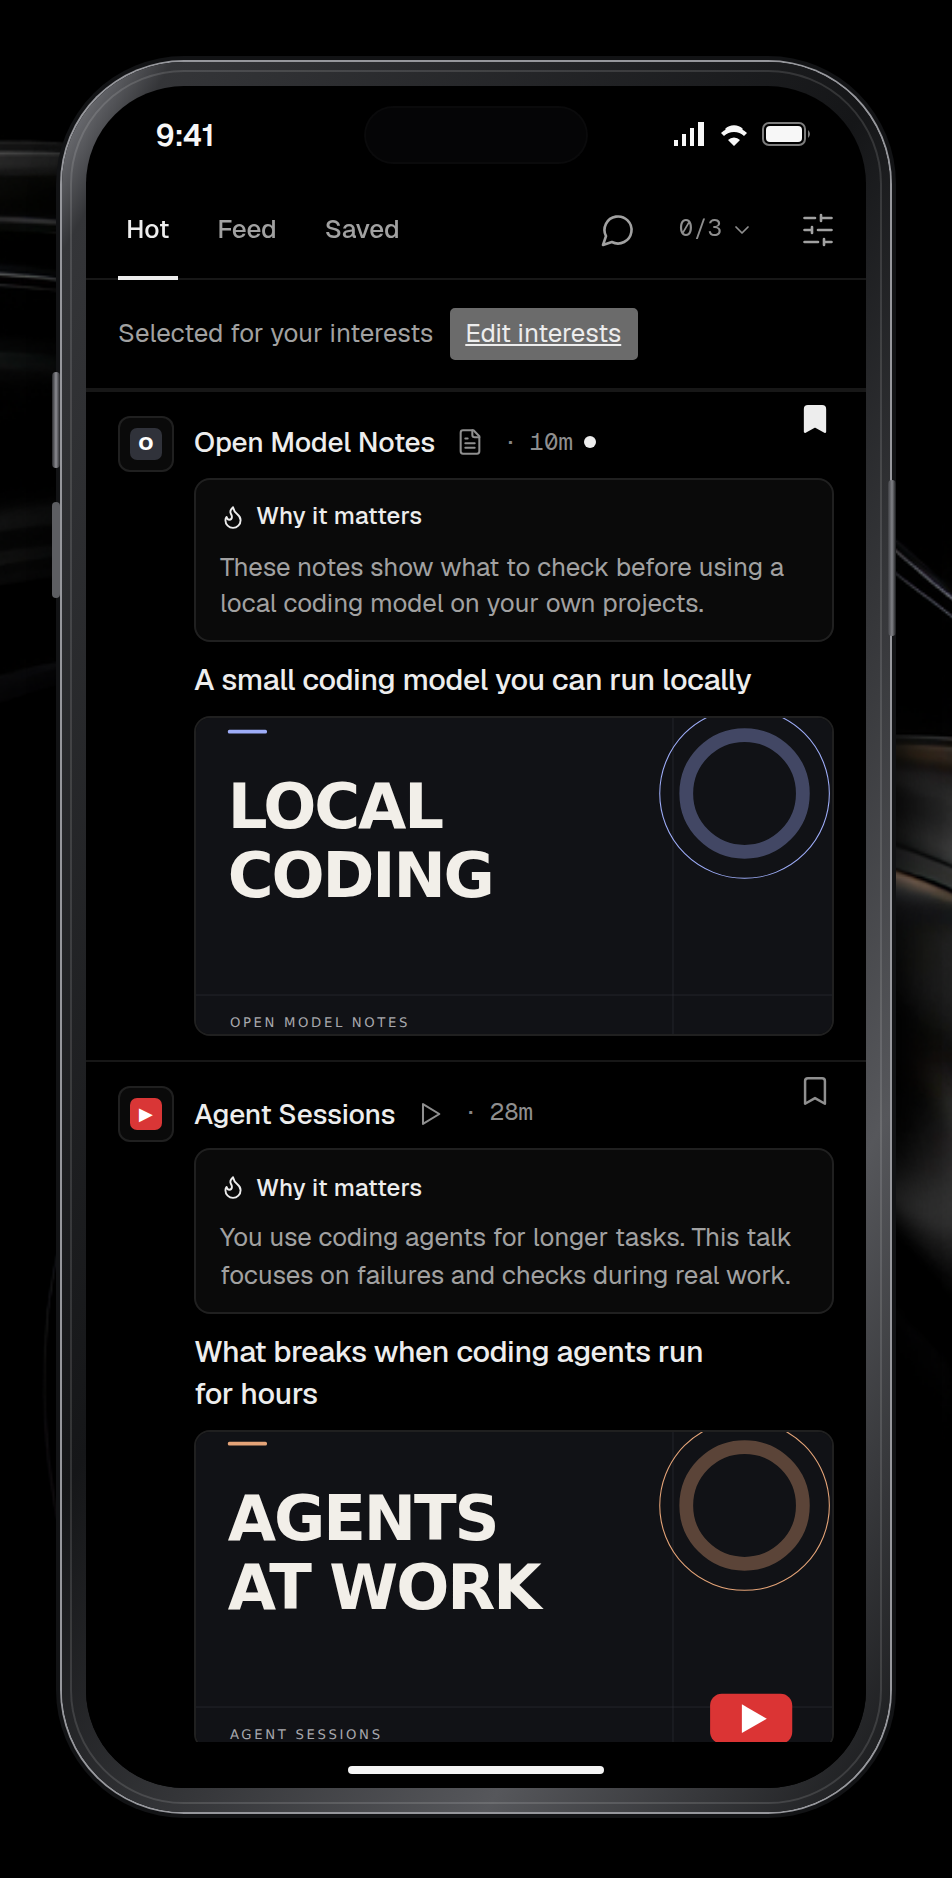
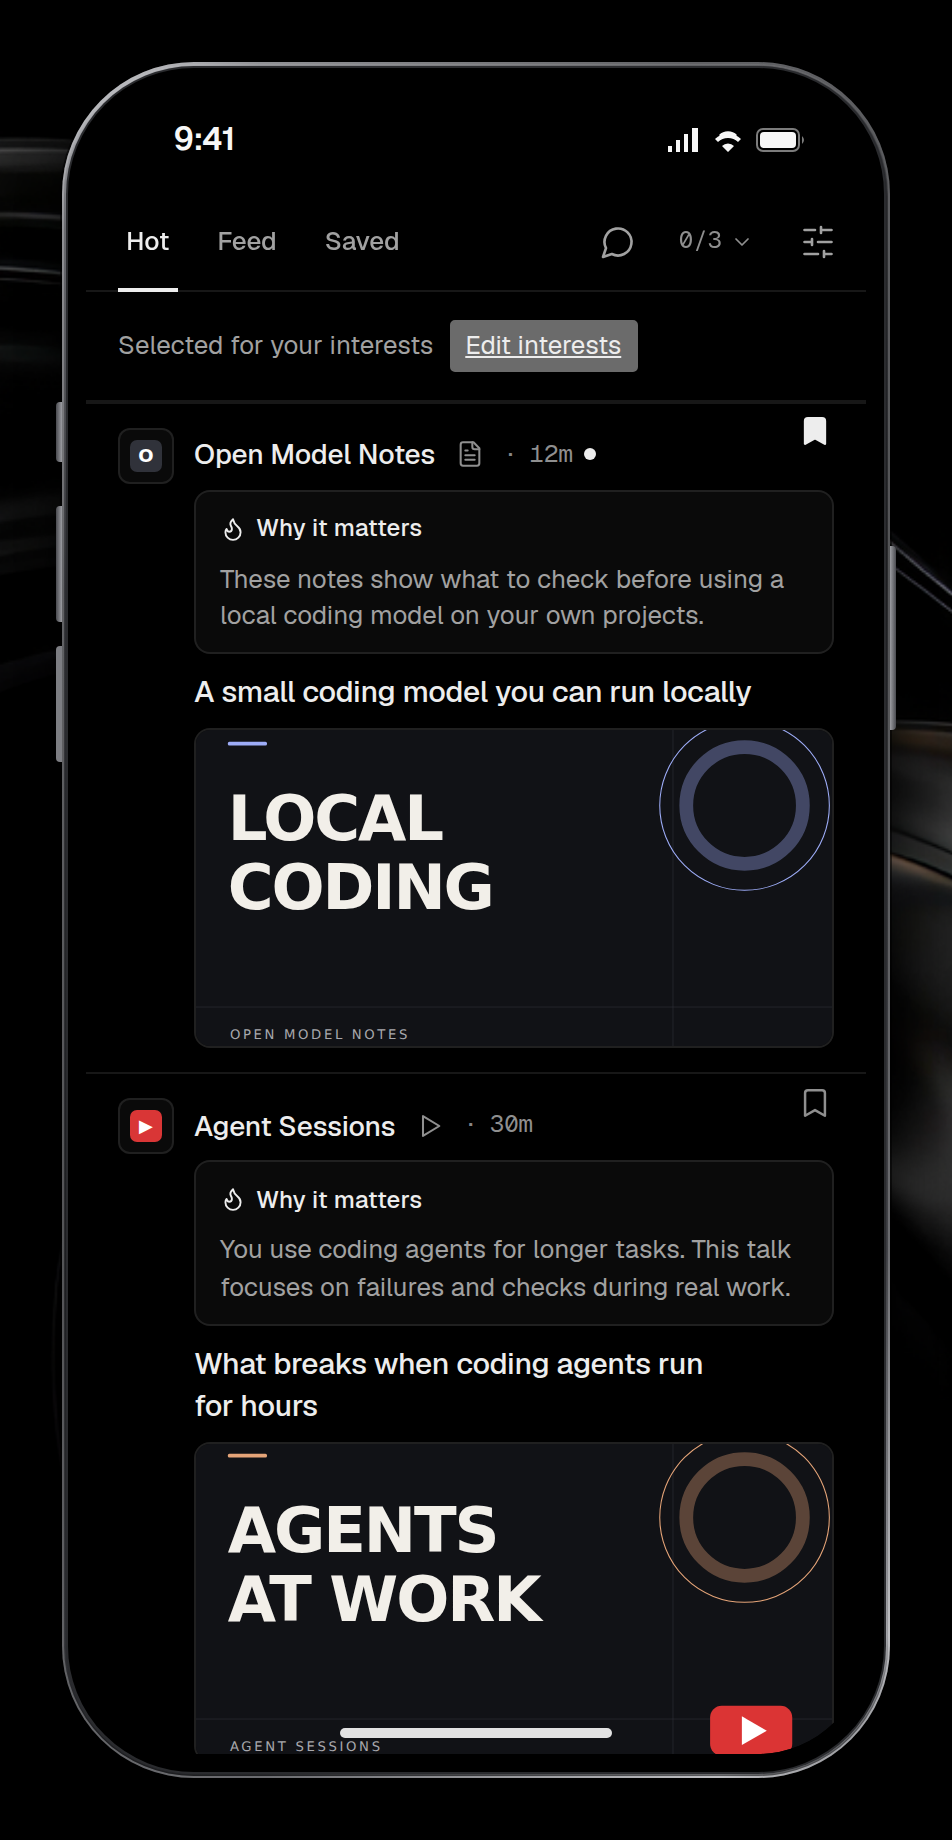
docs: frame every screenshot in one modern iPhone size
All phone captures now use the same 390×780 viewport, so Discuss and
Hide seen match the other screenshots in the README grid. The frame has
a thin titanium edge, a narrow black bezel, a Dynamic Island status bar
and a home indicator over the content. The generator waits up to three
minutes for the demo server, which starts slowly on a busy machine.

Changed region(s): [[0.0305, 0.031, 1.0, 0.9913], [0.5179, 0.5886, 0.5788, 0.6196], [0.7311, 0.1239, 0.7616, 0.1549]]

diff --git a/docs/assets/src/compose.ts b/docs/assets/src/compose.ts
@@ -8,16 +8,18 @@ export function compositions({raw,fonts}:{raw:string;fonts:string}):Composition[
   @font-face{font-family:Geist;src:url('file://${join(fonts,'geist-latin-wght-normal.woff2')}');font-weight:100 900}
   *{box-sizing:border-box;margin:0}html,body{width:100%;height:100%;overflow:hidden}
   body{font-family:Geist,Arial,sans-serif;background:#08090a url('file://${backdrop}') center/cover;color:#f5f4f7}
-  .phone{position:relative;width:414px;padding:12px;border-radius:61px;background:linear-gradient(120deg,#929399 0,#343538 6%,#151618 45%,#56575b 78%,#18191b);box-shadow:0 0 0 1px #96979c,0 0 0 3px #121315,4px 8px 18px #0009,0 35px 70px #000b}
-  .phone::before{content:'';position:absolute;inset:4px;border:1px solid #ffffff20;border-radius:57px;pointer-events:none}
-  .buttons{position:absolute;left:-5px;top:155px;width:4px;height:48px;background:linear-gradient(90deg,#292a2d,#8c8c92,#26272a);border-radius:2px;box-shadow:0 65px 0 #5d5e62}
-  .buttons::after{content:'';position:absolute;left:418px;top:54px;width:4px;height:78px;border-radius:2px;background:linear-gradient(90deg,#3d3e42,#818287,#17181a)}
-  .screen{position:relative;width:390px;border-radius:49px;overflow:hidden;background:#000}.screen>img{display:block;width:390px}
-  .status{height:48px;position:relative;display:flex;align-items:center;justify-content:space-between;padding:0 27px 0 35px;font-size:15px;line-height:1;color:#f7f7f7}
-  .status b{font-weight:600}.island{position:absolute;top:10px;left:50%;transform:translateX(-50%);width:112px;height:29px;border-radius:20px;background:#050506;box-shadow:inset 0 0 0 1px #ffffff06}
-  .radios{display:flex;align-items:center;gap:6px}.home{height:23px;position:relative;background:#000}.home::after{content:'';position:absolute;left:50%;bottom:7px;transform:translateX(-50%);width:128px;height:4px;border-radius:8px;background:#f4f4f4}
+  .phone{position:relative;width:414px;padding:3px;border-radius:66px;background:linear-gradient(140deg,#c9cacf 0,#6c6d72 7%,#2c2d31 22%,#1a1b1e 50%,#3a3b40 78%,#a9aaaf 94%,#5b5c61);box-shadow:inset 0 0 0 1px #ffffff40,0 0 0 1px #0008,0 30px 80px #000c,0 8px 20px #0008}
+  .phone::before{content:'';position:absolute;inset:1px;border-radius:65px;box-shadow:inset 0 1px 1px #ffffff55,inset 0 -1px 1px #00000080;pointer-events:none}
+  .buttons{position:absolute;left:-3px;top:170px;width:3px;height:30px;border-radius:2px 0 0 2px;background:linear-gradient(90deg,#4a4b50,#9c9da2)}
+  .buttons::before{content:'';position:absolute;left:0;top:52px;width:3px;height:58px;border-radius:2px 0 0 2px;background:inherit;box-shadow:0 70px 0 #7d7e83}
+  .buttons::after{content:'';position:absolute;left:417px;top:72px;width:3px;height:92px;border-radius:0 2px 2px 0;background:linear-gradient(90deg,#9c9da2,#4a4b50)}
+  .screen{position:relative;width:408px;border:9px solid #000;border-radius:63px;overflow:hidden;background:#000;box-shadow:0 0 0 1px #2a2b2e}.screen-inner>img{display:block;width:390px}
+  .screen-inner{position:relative;border-radius:54px;overflow:hidden;background:#000}
+  .status{height:54px;position:relative;display:flex;align-items:center;justify-content:space-between;padding:0 30px 0 44px;font-size:16px;line-height:1;color:#f7f7f7}
+  .status b{font-weight:600;letter-spacing:-.2px}.island{position:absolute;top:11px;left:50%;transform:translateX(-50%);width:124px;height:36px;border-radius:20px;background:#000}
+  .radios{display:flex;align-items:center;gap:6px}.home{position:absolute;left:50%;bottom:8px;transform:translateX(-50%);width:136px;height:5px;border-radius:5px;background:#f4f4f4;opacity:.92}
   `;
-  const phone=(shot:string,cls='',scale=1)=>`<div class="device ${cls}"><div class="phone" style="zoom:${scale}"><i class="buttons"></i><div class="screen">${status}<img src="file://${join(raw,shot+'.png')}" alt="Stillfeed screen"><div class="home"></div></div></div></div>`;
+  const phone=(shot:string,cls='',scale=1)=>`<div class="device ${cls}"><div class="phone" style="zoom:${scale}"><i class="buttons"></i><div class="screen"><div class="screen-inner">${status}<img src="file://${join(raw,shot+'.png')}" alt="Stillfeed screen"><i class="home"></i></div></div></div></div>`;
   const shell=(body:string,css:string)=>`<!doctype html><html><head><meta charset="utf-8"><style>${foundation}${css}</style></head><body>${body}</body></html>`;
   const bento=()=>{
     const crop=(shot:string,cls:string,index:string,title:string,text:string)=>`<section class="cell ${cls}"><span>${index}</span><b>${title}</b><p>${text}</p><div class="crop"><div><img src="file://${join(raw,shot+'.png')}" alt="Stillfeed ${title} screen"></div></div></section>`;
@@ -72,11 +74,13 @@ export function compositions({raw,fonts}:{raw:string;fonts:string}):Composition[
   `);
   const frame=(shot:string)=>shell(phone(shot),`.device{position:absolute;left:31px;top:31px}`);
   const desktop=()=>shell(`<div class="browser"><div class="bar"><i></i><i></i><i></i><span>Stillfeed · Sources</span></div><img src="file://${join(raw,'sources.png')}" alt="Stillfeed Sources"></div>`,`.browser{position:absolute;left:31px;top:31px;width:1042px;background:#18191c;border:1px solid #ffffff55;border-radius:15px;overflow:hidden;box-shadow:0 25px 60px #0009}.bar{height:32px;display:flex;align-items:center;gap:6px;padding:0 12px}.bar i{width:7px;height:7px;border-radius:50%;background:#74757c}.bar span{margin-left:18px;color:#a3a4ae;font-size:11px}.browser img{display:block;width:1040px}`);
+  // Every phone screen is 390×780, so all framed phones share one size.
+  const frameHeight=31+3+9+54+780+9+3+31;
   return [
     {name:'stillfeed-banner',width:1500,height:1000,html:bento()},
     {name:'stillfeed-social',width:1200,height:630,html:social()},
-    ...['feed','hot','reader','saved','discuss'].map(name=>({name:'stillfeed-'+name,width:476,height:(name==='discuss'?650:780)+159,html:frame('phone-'+name)})),
-    ...['hide-menu','hide-after','hide-undo'].map(name=>({name:'frame-'+name,width:476,height:759,html:frame(name),temporary:true})),
+    ...['feed','hot','reader','saved','discuss'].map(name=>({name:'stillfeed-'+name,width:476,height:frameHeight,html:frame('phone-'+name)})),
+    ...['hide-menu','hide-after','hide-undo'].map(name=>({name:'frame-'+name,width:476,height:frameHeight,html:frame(name),temporary:true})),
     {name:'stillfeed-sources',width:1104,height:816,html:desktop()},
   ];
 }

diff --git a/docs/assets/src/shots.ts b/docs/assets/src/shots.ts
@@ -25,7 +25,8 @@ const chrome=process.env.CHROME||fallbackChrome;
 let browser:Awaited<ReturnType<typeof chromium.launch>>|undefined;
 async function api(path:string,value?:unknown){const response=await fetch(base+path,value===undefined?{}:{method:'POST',headers:{'Content-Type':'application/json','X-Stillfeed':'1'},body:JSON.stringify(value)});const data=await response.json();if(!response.ok)throw new Error(JSON.stringify(data));return data;}
 try{
-  for(let i=0;i<100;i++){try{if((await fetch(base+'/health')).ok)break;}catch{}await Bun.sleep(100);}
+  const ready=async()=>{try{return (await fetch(base+'/health')).ok;}catch{return false;}};
+  for(const deadline=Date.now()+180000;!await ready();await Bun.sleep(200))if(Date.now()>deadline)throw new Error('Documentation server did not start within 3 minutes');
   browser=await chromium.launch({executablePath:existsSync(chrome)?chrome:undefined,args:['--no-sandbox']});
   type Page=import('playwright-core').Page;
   async function app(width=390,height=780){
@@ -50,12 +51,12 @@ try{
     await shot(page,'phone-saved');copyFileSync(join(raw,'phone-saved.png'),join(out,'stillfeed-saved.png'));
     await page.keyboard.press('Escape');await page.goto(base+`/article/${reader}`);await page.locator('.ai-summary li').first().waitFor();
     await shot(page,'phone-reader');copyFileSync(join(raw,'phone-reader.png'),join(out,'stillfeed-reader.png'));
-    await page.setViewportSize({width:390,height:650});await page.locator('#detailDiscuss').click();await page.locator('.chat-assistant').first().waitFor();
+    await page.locator('#detailDiscuss').click();await page.locator('.chat-assistant').first().waitFor();
     await shot(page,'phone-discuss');copyFileSync(join(raw,'phone-discuss.png'),join(out,'stillfeed-discuss.png'));
     await context.close();
   }
   {
-    const {context,page}=await app(390,600);await page.goto(base);await page.locator('#feed .feed-card').first().waitFor();
+    const {context,page}=await app();await page.goto(base);await page.locator('#feed .feed-card').first().waitFor();
     const batch=await page.evaluate(()=>JSON.parse(sessionStorage.getItem('stillfeed-session')!).batch);
     const feed=await api('/api/feed?batch='+batch);await api('/api/seen',{ids:feed.items.slice(0,3).map((a:{id:string})=>a.id),seen:true});
     await page.reload();await page.locator('#readCount').filter({hasText:'3/'}).waitFor();await page.locator('#readCount').click();await page.locator('#hideViewed').waitFor();
